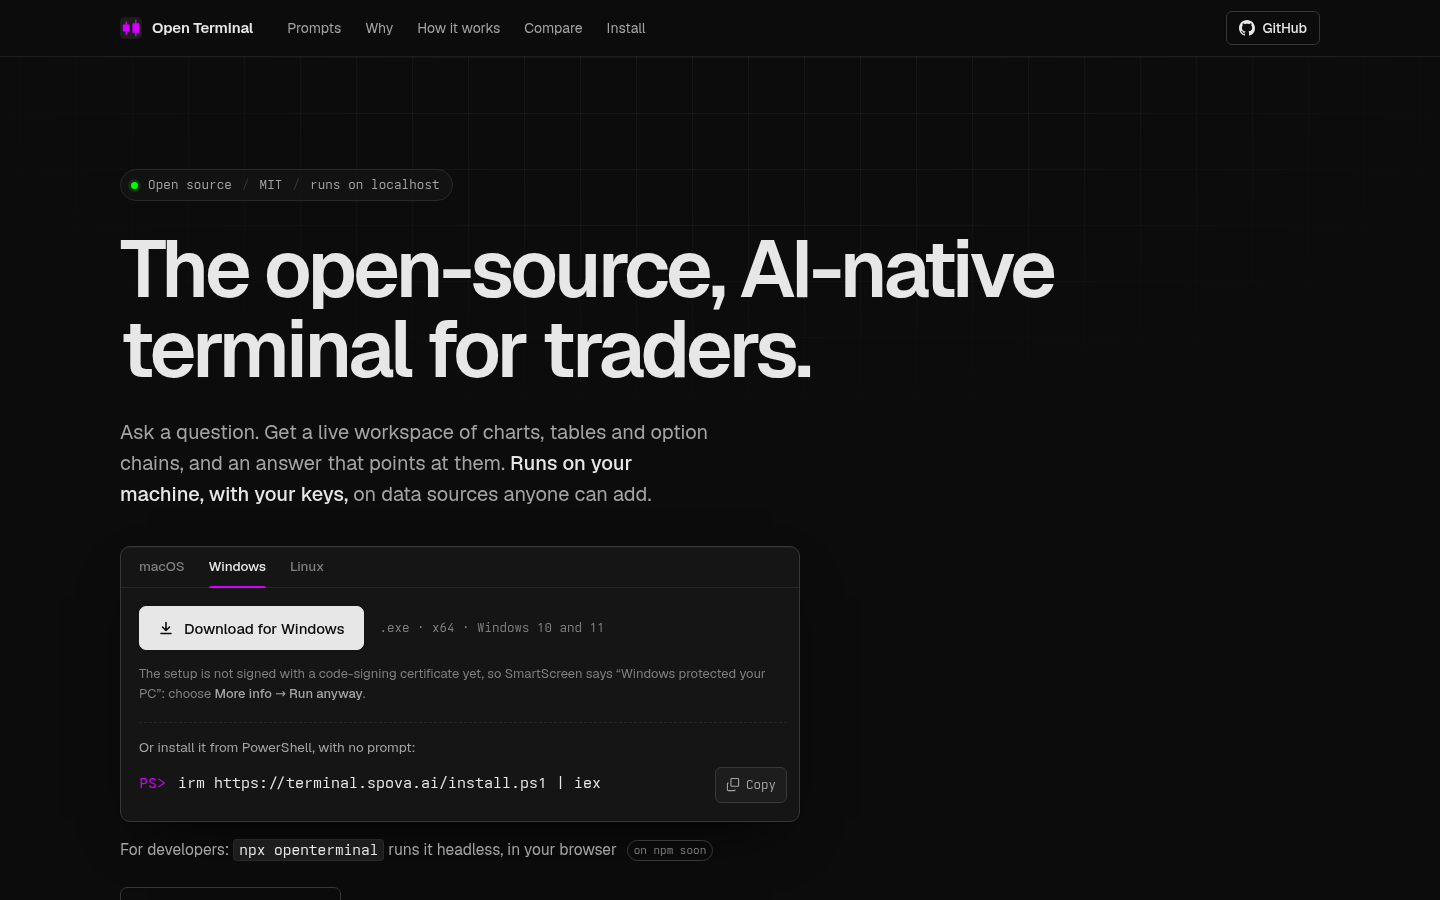
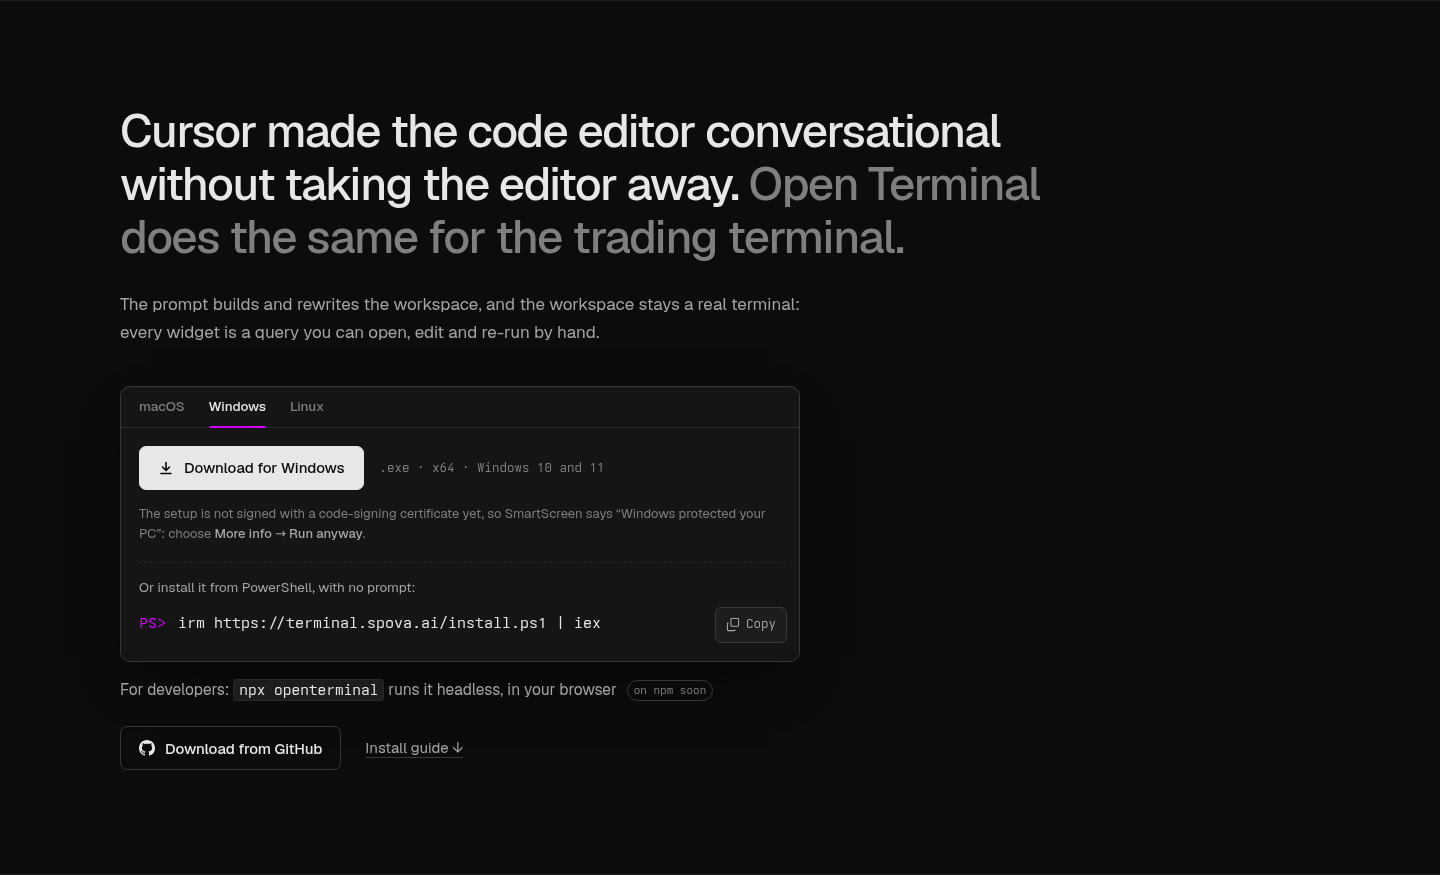
Site: the download card sits under the Cursor statement
The user wants the install card below "Cursor made the code editor
conversational..." instead of in the hero. The hero keeps the pitch, the facts
and the screenshot; the card and the developer line move into their own
section (#download) right after the statement, which gives up its bottom
padding to it. The hero screenshots in docs/screenshots show the new spot.

diff --git a/site/index.html b/site/index.html
@@ -73,7 +73,33 @@
           <p class="eyebrow mono"><span class="live" aria-hidden="true"></span>Open source<span class="sep" aria-hidden="true">/</span>MIT<span class="sep" aria-hidden="true">/</span>runs on localhost</p>
           <h1 id="hero-title">The <span class="nowrap">open-source,</span> <span class="nowrap">AI-native</span> terminal for traders.</h1>
           <p class="lead">Ask a question. Get a live workspace of charts, tables and option chains, and an answer that points at them. <strong>Runs on your machine, with your keys,</strong> on data sources anyone can add.</p>
-          <!-- install:hero: one tab per system (macOS, Windows, Linux; the default follows the visitor's system). Without script every system shows, one after another. -->
+          <ul class="facts mono" aria-label="At a glance">
+            <li>MIT licensed</li>
+            <li>macOS · Windows · Linux</li>
+            <li>No accounts, no backend, no telemetry</li>
+            <li>Any route · 24 recipes · 9 presets</li>
+          </ul>
+        </div>
+        <div class="wrap">
+          <figure class="hero-shot">
+            <div class="shot">
+              <img src="assets/hero-mag7-valuation.webp" width="1440" height="900" alt="An Open Terminal workspace named Mag 7 Valuation: the seven largest tech stocks rebased over two years as seven coloured lines, quarterly EPS with surprises, current multiples and Street price targets, under a ticker strip of index levels." fetchpriority="high" />
+            </div>
+            <figcaption class="caption mono"><span>A workspace the agent built: the Mag 7 over two years, EPS, multiples, Street targets</span><span>real screenshot · 1440 × 900</span></figcaption>
+          </figure>
+        </div>
+      </section>
+
+      <section class="statement statement-lead" aria-label="The idea">
+        <div class="wrap">
+          <p>Cursor made the code editor conversational without taking the editor away. <span class="dim">Open Terminal does the same for the trading terminal.</span></p>
+          <p class="sub">The prompt builds and rewrites the workspace, and the workspace stays a real terminal: every widget is a query you can open, edit and re-run by hand.</p>
+        </div>
+      </section>
+
+      <section class="get-section" id="download" aria-label="Download Open Terminal">
+        <div class="wrap">
+          <!-- install:hero: right under the Cursor statement (the user's placement). One tab per system (macOS, Windows, Linux; the default follows the visitor's system). Without script every system shows, one after another. -->
           <div class="get get-hero">
             <div class="get-head">
               <div class="os-tabs" role="tablist" aria-label="Download for">
@@ -127,27 +153,6 @@
               <a class="text-link" href="#install">Install guide <span aria-hidden="true">↓</span></a>
             </div>
           </div>
-          <ul class="facts mono" aria-label="At a glance">
-            <li>MIT licensed</li>
-            <li>macOS · Windows · Linux</li>
-            <li>No accounts, no backend, no telemetry</li>
-            <li>Any route · 24 recipes · 9 presets</li>
-          </ul>
-        </div>
-        <div class="wrap">
-          <figure class="hero-shot">
-            <div class="shot">
-              <img src="assets/hero-mag7-valuation.webp" width="1440" height="900" alt="An Open Terminal workspace named Mag 7 Valuation: the seven largest tech stocks rebased over two years as seven coloured lines, quarterly EPS with surprises, current multiples and Street price targets, under a ticker strip of index levels." fetchpriority="high" />
-            </div>
-            <figcaption class="caption mono"><span>A workspace the agent built: the Mag 7 over two years, EPS, multiples, Street targets</span><span>real screenshot · 1440 × 900</span></figcaption>
-          </figure>
-        </div>
-      </section>
-
-      <section class="statement" aria-label="The idea">
-        <div class="wrap">
-          <p>Cursor made the code editor conversational without taking the editor away. <span class="dim">Open Terminal does the same for the trading terminal.</span></p>
-          <p class="sub">The prompt builds and rewrites the workspace, and the workspace stays a real terminal: every widget is a query you can open, edit and re-run by hand.</p>
         </div>
       </section>
 

diff --git a/site/styles.css b/site/styles.css
@@ -679,7 +679,7 @@ html.js:not(.tabs-ready)[data-os="linux"] .get-panel[data-os="linux"] {
   gap: 12px 24px;
   margin-top: 24px;
 }
-.hero .get-links .btn {
+.get-links .btn {
   min-height: 44px;
 }
 .text-link {
@@ -792,6 +792,16 @@ html.js:not(.tabs-ready)[data-os="linux"] .get-panel[data-os="linux"] {
 }
 .statement p .dim {
   color: var(--fg-3);
+}
+/* The download card sits right under the statement, so the statement gives up its bottom padding to it. */
+.statement-lead {
+  padding-bottom: 0;
+}
+.get-section {
+  padding-bottom: clamp(56px, 8vw, 104px);
+}
+.get-section .get-hero {
+  margin-top: 40px;
 }
 .statement .sub {
   max-width: 62ch;
